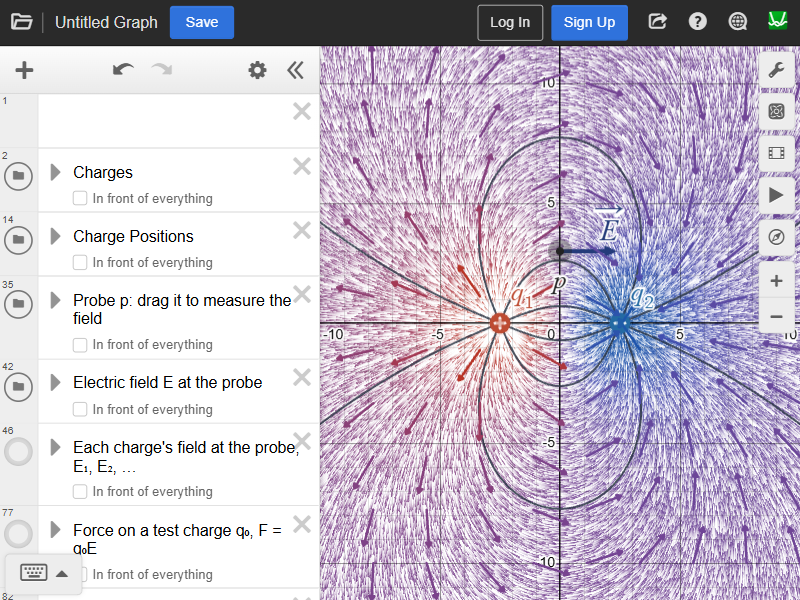
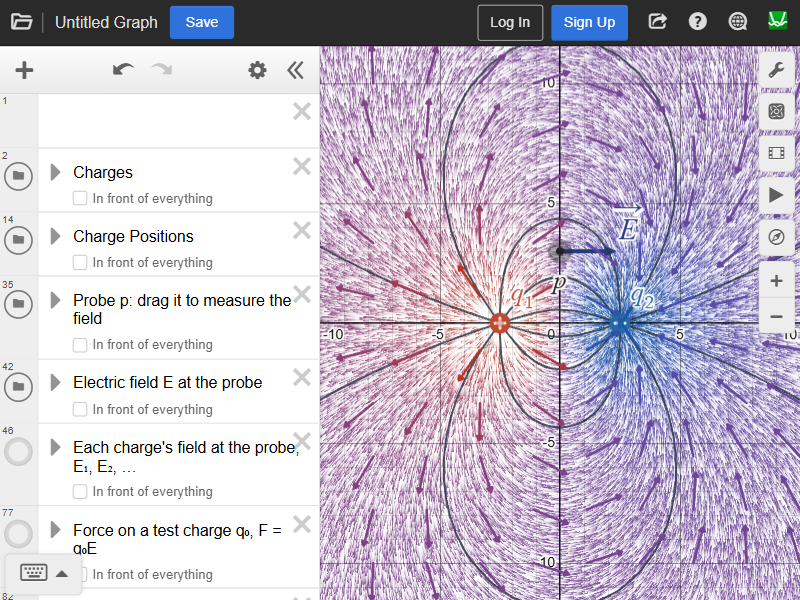
Ten field lines a unit charge, light enough to drag
Rafael found eight lines round a +-1 pair too few. Each unit charge now
sends ten. The pair's lines nearest its axis loop out hundreds of units,
and cut at 80 the two at +-162 degrees never came back, so the negative
charge made up lines on one side only. They are followed to 1,000 now,
in steps that grow with the distance, and the pair draws all ten, from
q1 round to q2, its own mirror image.

Kept light:
- A line far out and running outward, when the net charge drives it, is
  stopped there: it never returns. Ten charges of one sign had followed
  160 lines to the limit, 666 ms a trace; now 10.
- A line that wanders without headway, round a null point, is stopped.
- Only what lies within 1.3 times the picture is written; a loop outside
  it becomes a gap. Points are kept 0.12 apart on a bend (about five
  pixels) and 0.8 on a straight. The heaviest case went from 5,400
  points to 2,400, so Desmos parses far less.
- No list passes 9,000 points, under Desmos's 10,000 a list.
- Retraces during a drag are spaced at least twice what the last took,
  so even the heaviest case (about 40 ms live, 26 of it Desmos taking
  the lists) takes a third of the page's time, not all of it.

A live test drags one of ten charges of +5 and checks Desmos takes every
list without error, and how long each retrace took.

diff --git a/src/field-rendering/gallery/charge-lines.ts b/src/field-rendering/gallery/charge-lines.ts
@@ -107,12 +107,37 @@ function trace(
   // up the lines it was missing from the widest gaps, so the picture was
   // lopsided: a line out of + on one side, none into − on the other
   // (Rafael, 2026-11-09: "the field lines are wrong").
-  const limit = extent * 8;
+  // Far, for the lines that do come back: the dipole's lines nearest its
+  // axis loop out hundreds of units, and at 8 × the extent the two at
+  // ±162° were cut, so the picture lost its symmetry again. The steps
+  // grow with the distance out there, so the whole loop is a few dozen.
+  const limit = extent * 100;
+  // Far from every charge the field is the net charge's, outward from the
+  // middle of them if the line runs with it: a line that far out, running
+  // outward, never comes back, and following it to the limit was most of
+  // the work when the charges did not cancel (666 ms for ten of one sign).
+  let net = 0;
+  let cx = 0;
+  let cy = 0;
+  for (const c of charges) {
+    net += c.q;
+    cx += c.x / charges.length;
+    cy += c.y / charges.length;
+  }
+  let spread = 0;
+  for (const c of charges)
+    spread = Math.max(spread, Math.hypot(c.x - cx, c.y - cy));
+  const escapes = sign * net > 0;
+  const far = Math.max(1.5 * extent, 3 * spread);
   let [x, y] = start;
   const xs = [x];
   const ys = [y];
   let lastKept = [x, y];
   let lastDir: readonly [number, number] | undefined;
+  // Headway: a line that wanders a long way and gets nowhere is circling
+  // where the field nearly vanishes, and has nothing more to draw.
+  let anchor = [x, y];
+  let walked = 0;
   for (let n = 0; n < maxSteps; n++) {
     // The step follows the nearest charge: fine near one, where lines bend
     // most, and long far out, where they are nearly straight.
@@ -150,6 +175,22 @@ function trace(
     lastDir = [dx / h, dy / h];
     x += dx;
     y += dy;
+    walked += h;
+    if (n % 40 === 39) {
+      if (Math.hypot(x - anchor[0], y - anchor[1]) < 0.2 * walked)
+        return { xs, ys, end: -1 };
+      anchor = [x, y];
+      walked = 0;
+    }
+    if (
+      escapes &&
+      Math.hypot(x - cx, y - cy) > far &&
+      (x - cx) * dx + (y - cy) * dy > 0
+    ) {
+      xs.push(x);
+      ys.push(y);
+      return { xs, ys, end: -1 };
+    }
     const hit = insideCharge(charges, x, y, radius, n < 3 ? from : -1);
     if (hit >= 0) {
       // End on the charge's rim, not inside the disc drawn over it.
@@ -165,9 +206,11 @@ function trace(
       return { xs, ys, end: -1 };
     }
     // Keep a point only once the line has turned or gone a way: straight
-    // runs need few, and Desmos parses every point written.
+    // runs need few, and Desmos parses every point written. A unit is
+    // about forty pixels in the preset's view, so 0.12 is five: a chord
+    // that short, bent by six degrees, is off the curve by under a pixel.
     const moved = Math.hypot(x - lastKept[0], y - lastKept[1]);
-    if (moved > 0.4 || (moved > 0.04 && turned(xs, ys, x, y))) {
+    if (moved > 0.8 || (moved > 0.12 && turned(xs, ys, x, y))) {
       xs.push(x);
       ys.push(y);
       lastKept = [x, y];
@@ -176,7 +219,7 @@ function trace(
   return { xs, ys, end: -1 };
 }
 
-/** Whether the last kept segment and the one to (x, y) bend by over ~3°. */
+/** Whether the last kept segment and the one to (x, y) bend by over ~6°. */
 function turned(xs: number[], ys: number[], x: number, y: number) {
   const n = xs.length;
   if (n < 2) return true;
@@ -185,7 +228,7 @@ function turned(xs: number[], ys: number[], x: number, y: number) {
   const bx = x - xs[n - 1];
   const by = y - ys[n - 1];
   const cross = Math.abs(ax * by - ay * bx);
-  return cross > 0.05 * Math.hypot(ax, ay) * Math.hypot(bx, by);
+  return cross > 0.1 * Math.hypot(ax, ay) * Math.hypot(bx, by);
 }
 
 /** Where each of a charge's `count` lines starts, round its rim. */
@@ -196,12 +239,17 @@ function starts(c: PointCharge, count: number, radius: number, phase: number) {
   });
 }
 
+/** The most points the lists may hold, under Desmos's 10,000 a list. */
+export const MAX_POINTS = 9000;
+
 export function traceFieldLines(
   charges: readonly PointCharge[],
   options: FieldLineOptions
 ): FieldLines {
   const o: Required<FieldLineOptions> = {
-    perUnit: 8,
+    // Ten a unit charge: eight looked sparse round a ±1 pair (Rafael,
+    // 2026-11-09). Ten charges of ±1 are a hundred lines, 2 ms to trace.
+    perUnit: 10,
     maxLines: 160,
     maxSteps: 1500,
     ...options,
@@ -216,14 +264,46 @@ export function traceFieldLines(
   const xs: number[] = [];
   const ys: number[] = [];
   let lines = 0;
+  // What is written: the lines inside a margin round the picture. A loop
+  // far outside it is followed (it decides where the line comes back) but
+  // not drawn, so it is a gap in the list: Desmos parses every number
+  // written, and parsing, not tracing, was most of a retrace (2026-11-09).
+  const box = o.extent * 1.3;
+  const inside = (line: { xs: number[]; ys: number[] }, k: number) =>
+    k >= 0 &&
+    k < line.xs.length &&
+    Math.abs(line.xs[k]) <= box &&
+    Math.abs(line.ys[k]) <= box;
   const add = (line: { xs: number[]; ys: number[] }) => {
     if (line.xs.length < 2) return;
+    const vx: number[] = [];
+    const vy: number[] = [];
+    for (let k = 0; k < line.xs.length; k++) {
+      // A point is kept if it or a neighbour is inside, so a segment
+      // that crosses into the picture keeps both its ends.
+      if (inside(line, k - 1) || inside(line, k) || inside(line, k + 1)) {
+        vx.push(line.xs[k]);
+        vy.push(line.ys[k]);
+      } else if (vx.length > 0 && Number.isFinite(vx[vx.length - 1])) {
+        vx.push(NaN);
+        vy.push(NaN);
+      }
+    }
+    while (vx.length > 0 && !Number.isFinite(vx[vx.length - 1])) {
+      vx.pop();
+      vy.pop();
+    }
+    if (vx.length < 2) return;
+    // Desmos refuses a list of more than 10,000, and the lines would then
+    // be an error instead of a picture: a line that would pass this is
+    // left out. The worst arrangement measured took 5,400.
+    if (xs.length + vx.length + 1 > MAX_POINTS) return;
     if (lines > 0) {
       xs.push(NaN);
       ys.push(NaN);
     }
-    xs.push(...line.xs);
-    ys.push(...line.ys);
+    xs.push(...vx);
+    ys.push(...vy);
     lines++;
   };
   // Angles at which lines arrived at each negative charge.

diff --git a/src/plugins/vector-tools/index.ts b/src/plugins/vector-tools/index.ts
@@ -1457,24 +1457,35 @@ export default class VectorTools extends PluginController<VectorToolsSettings> {
   private chargeLinesKey = "";
   private chargeLinesTimer?: ReturnType<typeof setTimeout>;
   private chargeLinesValues?: ReadonlyMap<string, number>;
+  /** How long the last retrace took, tracing and writing, in ms. */
+  private chargeLinesCost = 0;
 
   /**
    * Retraces the loaded preset's field lines (`chargeLines`) when its
    * charges have moved. Coalesced, not debounced, like the environment
    * refresh: a charge being dragged reports every frame, and the lines
-   * should follow it, at most about twenty times a second.
+   * should follow it, at most about twenty times a second. Never sooner
+   * than twice the last retrace took, so however many charges there are,
+   * the lines take at most a third of the page's time during a drag: ten
+   * charges of one sign took 40 ms a retrace live (2026-11-09), and every
+   * 50 ms they kept the page busy.
    */
   private scheduleChargeLines(values: ReadonlyMap<string, number>) {
     this.chargeLinesValues = values;
     if (this.chargeLinesTimer !== undefined) return;
-    this.chargeLinesTimer = setTimeout(() => {
-      this.chargeLinesTimer = undefined;
-      if (this.dispatching()) {
-        this.scheduleChargeLines(this.chargeLinesValues ?? new Map());
-        return;
-      }
-      this.writeChargeLines();
-    }, 50);
+    this.chargeLinesTimer = setTimeout(
+      () => {
+        this.chargeLinesTimer = undefined;
+        if (this.dispatching()) {
+          this.scheduleChargeLines(this.chargeLinesValues ?? new Map());
+          return;
+        }
+        const start = performance.now();
+        if (this.writeChargeLines())
+          this.chargeLinesCost = performance.now() - start;
+      },
+      Math.max(50, 2 * this.chargeLinesCost)
+    );
   }
 
   /**
@@ -1485,17 +1496,17 @@ export default class VectorTools extends PluginController<VectorToolsSettings> {
    * phantom charge (Rafael, 2026-11-09). The numbers are read from the
    * sliders themselves, since a closed preset's are no longer the field's.
    */
-  private writeChargeLines() {
+  private writeChargeLines(): boolean {
     const values = this.chargeLinesValues;
-    if (values === undefined || this.cc.is3dProduct()) return;
+    if (values === undefined || this.cc.is3dProduct()) return false;
     const spec =
       galleryPreset(this.activePresetId ?? "")?.chargeLines ??
       FIELD_GALLERY.find((preset) => preset.chargeLines !== undefined)
         ?.chargeLines;
-    if (spec === undefined) return;
+    if (spec === undefined) return false;
     const xs = sceneItemID({ key: "linesx", latex: "" });
     const ys = sceneItemID({ key: "linesy", latex: "" });
-    if (this.cc.getItemModel(xs) === undefined) return;
+    if (this.cc.getItemModel(xs) === undefined) return false;
     const sliders = sliderValues(this.cc.getAllItemModels());
     const read = (name: string) => {
       const id = canonicalIdentifier(name);
@@ -1513,7 +1524,7 @@ export default class VectorTools extends PluginController<VectorToolsSettings> {
       charges.push({ q, x, y });
     }
     const key = JSON.stringify([on, charges]);
-    if (key === this.chargeLinesKey) return;
+    if (key === this.chargeLinesKey) return false;
     this.chargeLinesKey = key;
     // Off, the lists are emptied rather than kept: nothing reads them, and
     // a graph shared with them hidden should not carry thousands of points.
@@ -1524,6 +1535,7 @@ export default class VectorTools extends PluginController<VectorToolsSettings> {
       { id: xs, latex: `L_{xvt}=${xLatex}` },
       { id: ys, latex: `L_{yvt}=${yLatex}` },
     ]);
+    return true;
   }
 
   /**

diff --git a/src/plugins/vector-tools/vector-tools.int.test.ts b/src/plugins/vector-tools/vector-tools.int.test.ts
@@ -2519,6 +2519,96 @@ testWithPage(
 );
 
 testWithPage(
+  "ten charges' field lines retrace quickly and Desmos takes every list",
+  async (driver) => {
+    await driver.enablePlugin("vector-tools");
+    await resetLibrary(driver);
+    await driver.evaluate(() =>
+      (window as any).DSM.enabledPlugins["vector-tools"].applyGalleryPreset(
+        "charges",
+        true
+      )
+    );
+    await driver.waitForSync();
+    // The heaviest picture: ten charges of one sign, every line escaping.
+    await driver.evaluate(() => {
+      const vt = (window as any).DSM.enabledPlugins["vector-tools"];
+      const times: number[] = [];
+      const write = vt.writeChargeLines.bind(vt);
+      vt.writeChargeLines = () => {
+        const t = performance.now();
+        const wrote = write();
+        if (wrote) times.push(performance.now() - t);
+        return wrote;
+      };
+      (window as any).lineTimes = times;
+      Calc.setExpressions([
+        { id: "vector_tools_variables_Nq", latex: "N_{q}=10" },
+        ...Array.from({ length: 10 }, (_, i) => ({
+          id: `vector_tools_variables_q${i + 1}`,
+          latex: `q_{${i + 1}}=5`,
+        })),
+      ]);
+    });
+    await driver.waitForSync();
+    // Dragged: one charge moved a step at a time.
+    for (let step = 0; step < 8; step++) {
+      await driver.evaluate(
+        (x) =>
+          Calc.setExpression({
+            id: "vector_tools_variables_Xq1",
+            latex: `X_{q1}=${x}`,
+          }),
+        -2.5 + step * 0.3
+      );
+      await new Promise((resolve) => setTimeout(resolve, 120));
+    }
+    await driver.waitForSync();
+    await new Promise((resolve) => setTimeout(resolve, 300));
+    const result = await driver.evaluate(() => {
+      const ids = [
+        "vector_tools_variables_object_linesx",
+        "vector_tools_variables_object_linesy",
+        "vector_tools_variables_object_lines",
+      ];
+      const { list } = Calc.getState().expressions;
+      const xs = (
+        list.find((e) => e.id === ids[0]) as { latex: string }
+      ).latex.split(",").length;
+      return {
+        times: (window as any).lineTimes as number[],
+        xs,
+        errors: ids.filter(
+          (id) =>
+            (Calc.controller.getItemModel(id) as { error?: unknown })?.error !==
+            undefined
+        ),
+      };
+    });
+    // eslint-disable-next-line no-console
+    console.log(
+      `ten charges: ${result.xs} points, retrace ${result.times
+        .map((t) => t.toFixed(1))
+        .join(", ")} ms`
+    );
+    expect(result.errors).toEqual([]);
+    expect(result.xs).toBeGreaterThan(1000);
+    expect(result.xs).toBeLessThanOrEqual(9000);
+    // The heaviest arrangement, traced and handed to Desmos: about 40 ms
+    // a retrace here, of which Desmos taking the lists is 26 (measured
+    // 2026-11-09). A guard against a regression several times over, not a
+    // budget; the retraces are spaced so they take a third of a drag.
+    expect(result.times.length).toBeGreaterThan(2);
+    expect(Math.max(...result.times)).toBeLessThan(150);
+
+    await driver.disablePlugin("vector-tools");
+    await driver.setBlank();
+    await driver.waitForSync();
+  },
+  90000
+);
+
+testWithPage(
   "a preset's Desmos arrows wait in a hidden folder, N_arrows a side, and its field lines follow charges after it closes",
   async (driver) => {
     await driver.enablePlugin("vector-tools");

diff --git a/src/field-rendering/gallery/charge-lines.unit.test.ts b/src/field-rendering/gallery/charge-lines.unit.test.ts
@@ -1,5 +1,6 @@
 import {
   fieldLinesLatex,
+  MAX_POINTS,
   traceFieldLines,
   type PointCharge,
 } from "./charge-lines";
@@ -58,10 +59,31 @@ describe("traceFieldLines", () => {
       ],
       opts
     );
-    // 8 per unit charge out of the positive one; the negative one needs
-    // only the few that escaped past the picture's edge.
-    expect(lines.lines).toBeGreaterThanOrEqual(8);
-    expect(lines.lines).toBeLessThanOrEqual(12);
+    // 10 per unit charge out of the positive one, and every one of them
+    // comes back round to the negative one, which needs none of its own.
+    expect(lines.lines).toBe(10);
+  });
+
+  test("each charge of ±1 meets ten lines, among ten charges", () => {
+    const x = [-2.5, 2.5, 5.5, 2.3, -2.3, -5.5, -5.5, -2.3, 2.3, 5.5];
+    const y = [0, 0, 2.3, 5.5, 5.5, 2.3, -2.3, -5.5, -5.5, -2.3];
+    const charges = x.map((cx, i) => ({ q: i % 2 ? -1 : 1, x: cx, y: y[i] }));
+    const lines = traceFieldLines(charges, { radius: 0.4, extent: 10 });
+    // Five positive charges send ten each; the negative ones take them in.
+    expect(lines.lines).toBeGreaterThanOrEqual(50);
+    expect(lines.lines).toBeLessThanOrEqual(60);
+  });
+
+  test("the lists never pass what Desmos takes in one", () => {
+    const charges = Array.from({ length: 10 }, (_, i) => ({
+      q: 5,
+      x: 8 * Math.cos(i),
+      y: 8 * Math.sin(i),
+    }));
+    const lines = traceFieldLines(charges, { radius: 0.4, extent: 10 });
+    expect(lines.xs.length).toBeLessThanOrEqual(MAX_POINTS);
+    // And with room to spare, so the cap is a guard and not the picture.
+    expect(lines.xs.length).toBeLessThan(7000);
   });
 
   test("an equal dipole's lines are its mirror image", () => {
@@ -91,7 +113,7 @@ describe("traceFieldLines", () => {
 
   test("a lone negative charge sends its lines back out", () => {
     const lines = traceFieldLines([{ q: -1, x: 0, y: 0 }], opts);
-    expect(lines.lines).toBe(8);
+    expect(lines.lines).toBe(10);
   });
 
   test("ten charges stay within the line budget", () => {
